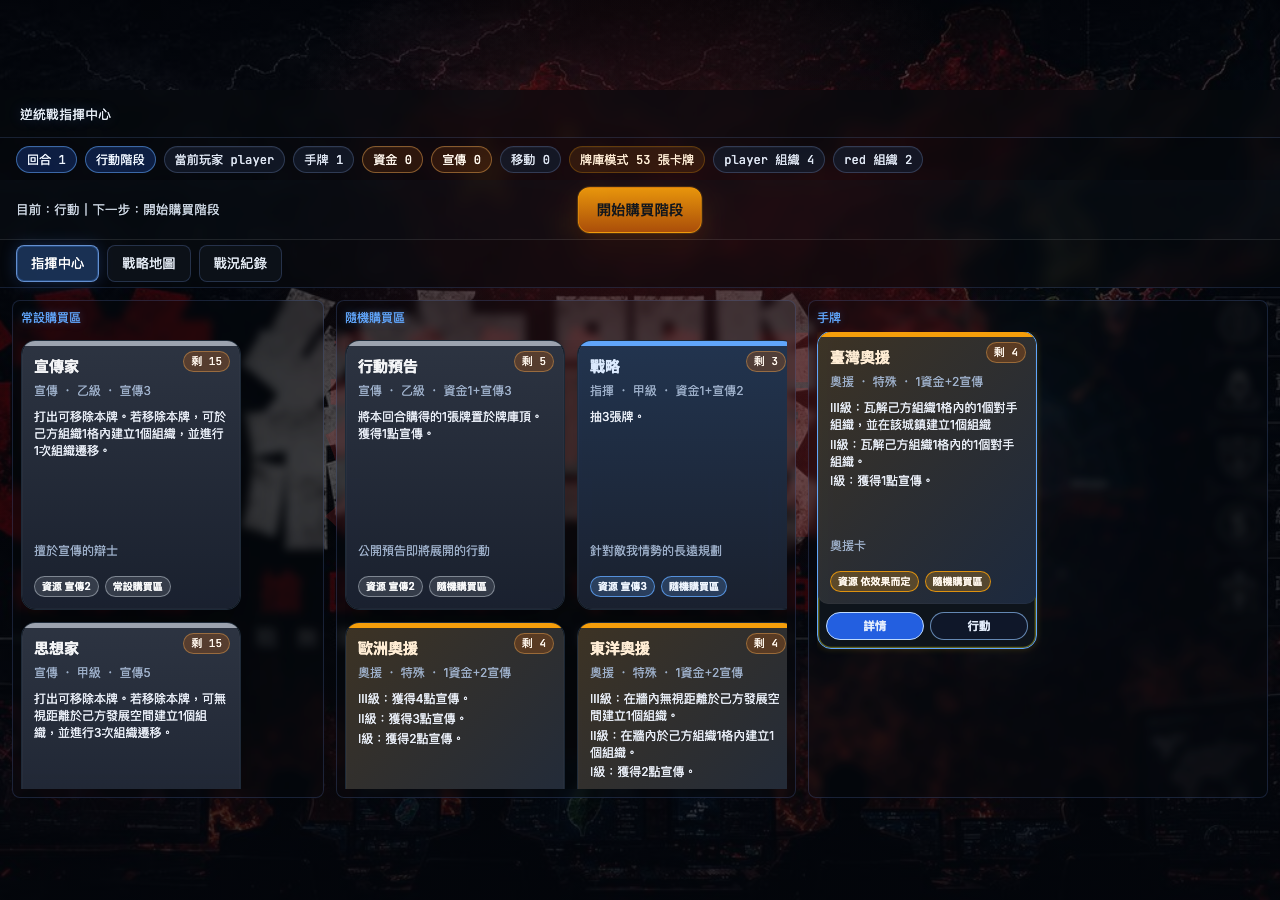
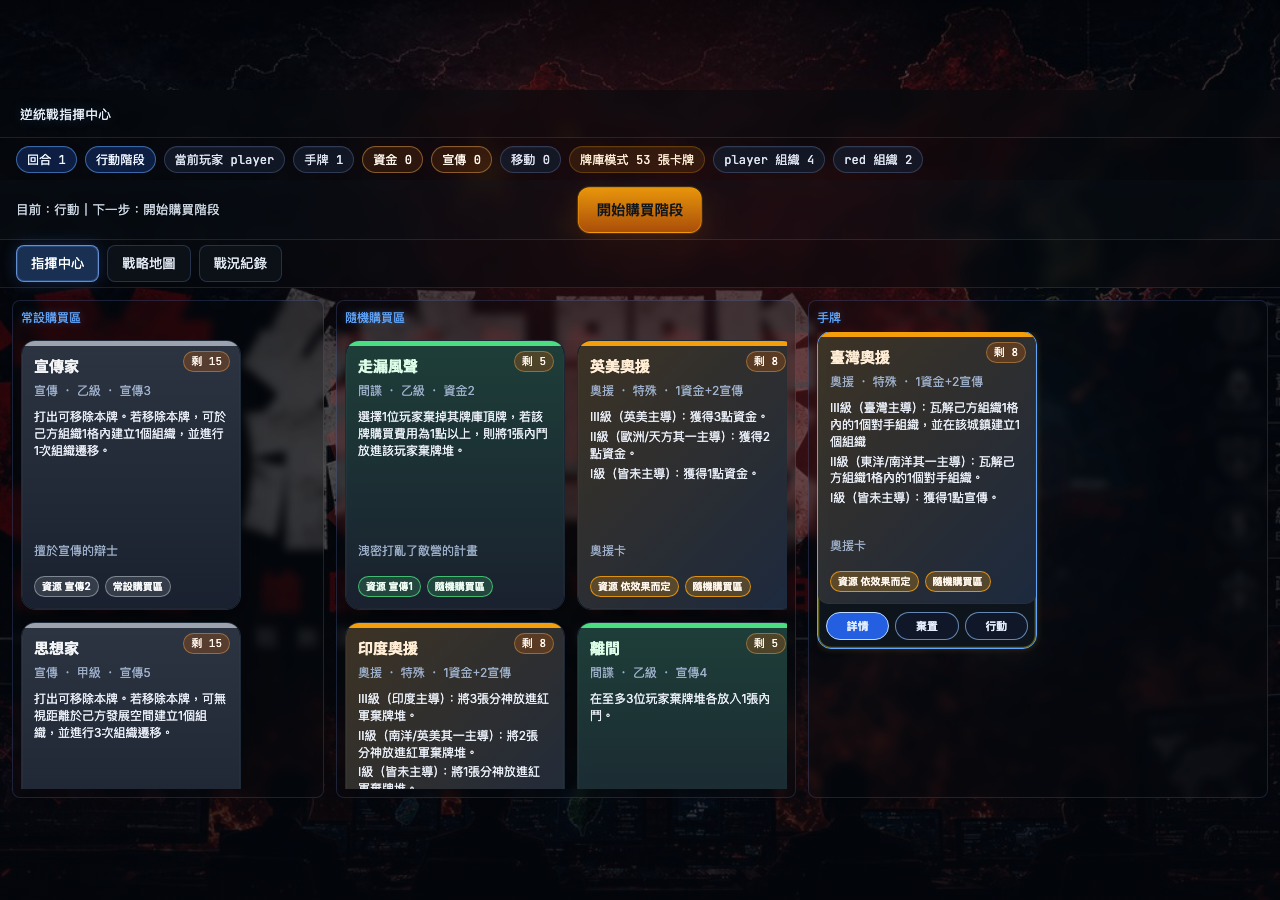
feat: card face shows each support card's own variant; add 棄置 button
/card-presentation only ever read the first of a support card's two
CSV rows and never surfaced which region unlocks which tier. The
catalog now captures both printed variants (region + tier text), and
state() exposes per-instance hand_variants/purchase_area_variants so
the card face renders the one variant that specific card is actually
printed with, labeled with its qualifying region.

Also adds a 棄置 (discard-without-using) button to support cards in
hand, alongside 詳情/行動 — it reuses the existing no-op
play_card(mode='resource') path for support cards, which already
discarded them with zero resource gain but had no button pointing at
it after 資源 was replaced by 詳情.

diff --git a/static/app.js b/static/app.js
@@ -701,7 +701,20 @@ function liveStaticSupplyForCard(state, cardName) {
   return staticCardCatalogCount(cardName);
 }
 
-function renderCardFace(cardName, zone, isStatic = false, compact = false, countOverride = null) {
+function supportVariantEffectText(info, variantInfo) {
+  const variants = info.support_variants;
+  if (!Array.isArray(variants) || !variants.length) return null;
+  const idx = variantInfo && Number.isInteger(variantInfo.variant_index) ? variantInfo.variant_index : 0;
+  const v = variants[idx] || variants[0];
+  const tier2Regions = (v.tier2_regions || []).join('/');
+  return [
+    `III級（${v.tier3_region}主導）：${v.tier3_text}`,
+    `II級（${tier2Regions}其一主導）：${v.tier2_text}`,
+    `I級（皆未主導）：${v.tier1_text}`,
+  ].join('\n');
+}
+
+function renderCardFace(cardName, zone, isStatic = false, compact = false, countOverride = null, variantInfo = null) {
   const info = cardPresentation(cardName) || {};
   const isSupport = /奧援/.test(cardName);
   const color = info.color || (isSupport ? '奧援' : '灰');
@@ -709,7 +722,11 @@ function renderCardFace(cardName, zone, isStatic = false, compact = false, count
   const colorStyle = styleVars(cardColorStyle(color));
   const typeLabel = zone === 'hand' ? '手牌' : (isStatic ? '常設購買區' : '隨機購買區');
   const headerMeta = [info.kind, info.strength, info.cost_text].filter(Boolean).join(' ・ ');
-  const effectLines = splitEffectLines(info.effect_text || (isSupport ? '奧援卡，依區域主導者判定 I・II・III 級效果。' : '（暫無資料）'));
+  // 這張牌實體只印一組 II 級門檻地區；有 variantInfo（來自 state 的 hand_variants／
+  // purchase_area_variants）時只顯示這張牌自己印的那組，而不是奧援目錄裡兩種變體都列出的
+  // 通用文字（2026-07-16 使用者裁決：一張牌只看/只顯示自己印的那組）。
+  const effectText = supportVariantEffectText(info, variantInfo) || info.effect_text;
+  const effectLines = splitEffectLines(effectText || (isSupport ? '奧援卡，依區域主導者判定 I・II・III 級效果。' : '（暫無資料）'));
   const badgeItems = [];
   if (info.resource_text) badgeItems.push(`資源 ${info.resource_text}`);
   if (info.position_text) badgeItems.push(info.position_text);
@@ -2550,16 +2567,25 @@ async function render(state) {
         const cardArg = escapeHtml(jsSingleQuotedString(card));
         const cardAttr = escapeHtml(card);
         const isSupportCard = /奧援/.test(card);
+        const variantInfo = (me.hand_variants || [])[i] || null;
         const colorName = (cardPresentation(card)?.color) || (isSupportCard ? '奧援' : '灰');
         const colorClass = cardColorClass(colorName);
         const canPlayAction = canPlayHandCardMode(card, 'action');
         const actionDisabledAttr = canPlayAction ? '' : 'disabled aria-disabled="true"';
         const actionTitle = handButtonTitle(card, 'action', canPlayAction);
         // 奧援卡只能當「行動」打出；效果依區域主導者判定 I/II/III 級，本身不提供資源，
-        // 所以不給「資源」按鈕，改為「詳情」——點擊只是把卡面（已完整列出 I/II/III 級文字）
-        // 閃爍聚焦，不會送出任何動作。
-        const firstButtonHtml = isSupportCard
-          ? `<button class="hand-card-action-btn hand-card-detail-btn" type="button" title="效果詳情已列於卡面（I/II/III 級）" data-card-index="${i}" data-card-name="${cardAttr}" data-card-mode="detail">詳情</button>`
+        // 所以不給「資源」按鈕，改為「詳情」（卡面已列出這張牌實際印的 I/II/III 級文字，
+        // 點擊只是閃爍聚焦，不送出任何動作）與「棄置」（不使用這張牌，直接送進棄牌堆——
+        // 沿用 play_card(mode='resource') 對奧援卡原本就有的「不給資源、直接棄置」行為，
+        // 只是重新掛一顆清楚標示用途的按鈕，2026-07-16 使用者需求）。
+        const middleButtonsHtml = isSupportCard
+          ? (() => {
+              const canDiscard = canPlayHandCardMode(card, 'resource');
+              const discardDisabledAttr = canDiscard ? '' : 'disabled aria-disabled="true"';
+              const discardTitle = canDiscard ? '棄置這張奧援卡：直接送進棄牌堆，不使用、不獲得任何效果。' : handButtonTitle(card, 'resource', canDiscard);
+              return `<button class="hand-card-action-btn hand-card-detail-btn" type="button" title="效果詳情已列於卡面（I/II/III 級）" data-card-index="${i}" data-card-name="${cardAttr}" data-card-mode="detail">詳情</button>
+              <button class="hand-card-action-btn" type="button" ${discardDisabledAttr} title="${escapeHtml(discardTitle)}" data-card-index="${i}" data-card-name="${cardAttr}" data-card-mode="resource">棄置</button>`;
+            })()
           : (() => {
               const canPlayResource = canPlayHandCardMode(card, 'resource');
               const resourceDisabledAttr = canPlayResource ? '' : 'disabled aria-disabled="true"';
@@ -2567,10 +2593,10 @@ async function render(state) {
               return `<button class="hand-card-action-btn" type="button" ${resourceDisabledAttr} title="${escapeHtml(resourceTitle)}" data-card-index="${i}" data-card-name="${cardAttr}" data-card-mode="resource">資源</button>`;
             })();
         handDiv.innerHTML += `
-          <div class='card hand-card ${colorClass}' onclick="selectCardDetail(${cardArg},'hand',false)">
-            ${renderCardFace(card, 'hand', false, true)}
+          <div class='card hand-card ${colorClass}${isSupportCard ? ' hand-card-three-actions' : ''}' onclick="selectCardDetail(${cardArg},'hand',false)">
+            ${renderCardFace(card, 'hand', false, true, null, variantInfo)}
             <div class="hand-card-actions">
-              ${firstButtonHtml}
+              ${middleButtonsHtml}
               <button class="hand-card-action-btn" type="button" ${actionDisabledAttr} title="${escapeHtml(actionTitle)}" data-card-index="${i}" data-card-name="${cardAttr}" data-card-mode="action">行動</button>
             </div>
           </div>`;
@@ -2615,9 +2641,10 @@ async function render(state) {
               : !purchaseAffordable
                 ? `資源不足，需要 ${costText}`
                 : `購買此卡（${costText}）`;
+      const variantInfo = (state.purchase_area_variants || [])[i] || null;
       container.innerHTML += `
         <div class='card ${typeClass}${supportClass} ${colorClass}' onclick="selectCardDetail(${JSON.stringify(card)},'purchase',${isStatic})" ${canBuy ? `ondblclick="sendAction('buy_card',{index:${i}})"` : ''}>
-          ${renderCardFace(card, 'purchase', isStatic, true, isStatic ? staticSupply : null)}
+          ${renderCardFace(card, 'purchase', isStatic, true, isStatic ? staticSupply : null, variantInfo)}
           <button class="purchase-card-buy-btn" type="button" ${canBuy ? '' : 'disabled aria-disabled="true"'} title="${escapeHtml(buyTitle)}" onclick="event.stopPropagation(); sendAction('buy_card',{index:${i}})">購買</button>
         </div>`;
     });

diff --git a/static/index.html b/static/index.html
@@ -3,7 +3,7 @@
 <head>
   <meta charset="UTF-8" />
   <title>REDLINE // STRATEGIC COMMAND</title>
-  <link rel="stylesheet" href="/static/style.css?v=support-card-detail-btn-20260716" />
+  <link rel="stylesheet" href="/static/style.css?v=support-card-variant-discard-20260716" />
 </head>
 <body>
 <div id="stageViewport">
@@ -239,6 +239,6 @@
 </div>
 
 <script src="https://unpkg.com/leaflet@1.9.4/dist/leaflet.js"></script>
-<script src="/static/app.js?v=support-card-detail-btn-20260716"></script>
+<script src="/static/app.js?v=support-card-variant-discard-20260716"></script>
 </body>
 </html>

diff --git a/static/style.css b/static/style.css
@@ -881,6 +881,15 @@ body {
   flex: 0 0 auto;
 }
 
+.hand-card-three-actions .hand-card-actions {
+  grid-template-columns: 1fr 1fr 1fr;
+}
+
+.hand-card-three-actions .hand-card-actions button {
+  padding: 5px 2px;
+  font-size: 0.68rem;
+}
+
 .hand-card-actions button {
   border: 1px solid rgba(147, 197, 253, 0.65);
   border-radius: 999px;

diff --git a/scripts/validate_support_card_variant_and_discard.py b/scripts/validate_support_card_variant_and_discard.py
@@ -1,0 +1,157 @@
+import json
+import os
+import sys
+import urllib.request
+from pathlib import Path
+
+try:
+    from playwright.sync_api import sync_playwright
+except ModuleNotFoundError:
+    system_python = '/usr/bin/python3'
+    if sys.executable != system_python and Path(system_python).exists():
+        os.execv(system_python, [system_python, __file__, *sys.argv[1:]])
+    raise
+
+ROOT = Path(__file__).resolve().parent.parent
+RECORD_DIR = ROOT / 'docs' / 'records' / 'support-cards'
+BASE_URL = 'http://127.0.0.1:8000'
+OUT_JSON = RECORD_DIR / 'SUPPORT_CARD_VARIANT_AND_DISCARD_VALIDATION.json'
+OUT_MD = RECORD_DIR / 'SUPPORT_CARD_VARIANT_AND_DISCARD_VALIDATION.md'
+SCREENSHOT = RECORD_DIR / 'support_card_variant_and_discard.png'
+
+
+def post_json(path, payload=None):
+    data = json.dumps(payload or {}).encode('utf-8')
+    req = urllib.request.Request(BASE_URL + path, data=data, headers={'Content-Type': 'application/json'})
+    return json.loads(urllib.request.urlopen(req, timeout=20).read().decode('utf-8'))
+
+
+# 2026-07-16 使用者裁決：奧援卡實體上一張只印一組 II 級門檻地區（見 support_cards.csv
+# 兩列）；同名卡的兩種變體不應互相干擾——手上這張牌只看自己印的那組地區。
+# 英美奧援 own region (III 級) = 英美；variant 0 印 歐洲/天方；variant 1 印 東洋/臺灣。
+VARIANT_TIER_CASES = [
+    {'name': 'variant0_matches_own_pair', 'variant_index': 0, 'orgs': {'伊斯坦堡': 1}, 'expected_tier': 2},
+    {'name': 'variant0_ignores_other_variant_pair', 'variant_index': 0, 'orgs': {'東京': 1}, 'expected_tier': 1},
+    {'name': 'variant1_matches_own_pair', 'variant_index': 1, 'orgs': {'東京': 1}, 'expected_tier': 2},
+    {'name': 'variant1_ignores_other_variant_pair', 'variant_index': 1, 'orgs': {'伊斯坦堡': 1}, 'expected_tier': 1},
+]
+
+
+def hand_card_buttons(page, card_name):
+    return page.evaluate(
+        """(name) => {
+          const card = [...document.querySelectorAll('#hand .hand-card')].find(c => c.innerText.includes(name));
+          if (!card) return null;
+          return [...card.querySelectorAll('.hand-card-action-btn')].map(b => ({
+            text: b.textContent.trim(), mode: b.dataset.cardMode, disabled: b.disabled,
+          }));
+        }""",
+        card_name,
+    )
+
+
+def check(browser):
+    results = []
+
+    def record(name, ok, detail=None):
+        results.append({'name': name, 'ok': bool(ok), 'detail': detail or {}})
+
+    # --- Part 1: direct-HTTP proof that tier gating only checks THIS card's own printed variant ---
+    for case in VARIANT_TIER_CASES:
+        setup = post_json('/test/setup-support-card-play', {
+            'support_name': '英美奧援', 'variant_index': case['variant_index'], 'orgs': case['orgs'],
+        })
+        record(
+            case['name'],
+            setup.get('support_tier') == case['expected_tier'],
+            {'variant_index': case['variant_index'], 'orgs': case['orgs'],
+             'expected_tier': case['expected_tier'], 'actual_tier': setup.get('support_tier')},
+        )
+
+    # --- Part 2: card face in the browser shows only the ONE variant this specific card
+    # instance is printed with, not both variants merged together ---
+    setup_v1 = post_json('/test/setup-support-card-play', {
+        'support_name': '英美奧援', 'variant_index': 1, 'orgs': {'東京': 1},
+    })
+    page = browser.new_context(viewport={'width': 1280, 'height': 900}).new_page()
+    page.goto(f"{BASE_URL}/?game_id={setup_v1['game_id']}&player_id={setup_v1['player_id']}", wait_until='networkidle')
+    page.wait_for_selector('#gameShell', state='visible', timeout=10000)
+    page.wait_for_timeout(900)
+    page.evaluate("() => { const b = document.getElementById('closeFactionActionModal'); if (b) b.click(); }")
+    page.wait_for_timeout(300)
+    face_text = page.inner_text('#hand .hand-card .card-effect-block')
+    record(
+        'card_face_shows_only_this_cards_own_printed_variant_regions',
+        ('東洋' in face_text and '臺灣' in face_text) and ('歐洲' not in face_text and '天方' not in face_text),
+        {'face_text': face_text},
+    )
+    page.screenshot(path=str(SCREENSHOT))
+
+    # --- Part 3: 棄置 button discards the support card with zero resource gain (reuses the
+    # existing play_card(mode='resource') no-op path for support cards) ---
+    before_hand = page.evaluate(
+        "(id) => window.lastGameState?.players?.find(p => p.id === id)?.hand || []", setup_v1['player_id']
+    )
+    before_resources = page.evaluate(
+        "(id) => window.lastGameState?.players?.find(p => p.id === id)?.resources || {}", setup_v1['player_id']
+    )
+    page.click("#hand .hand-card [data-card-mode='resource']")
+    page.wait_for_timeout(500)
+    after_hand = page.evaluate(
+        "(id) => window.lastGameState?.players?.find(p => p.id === id)?.hand || []", setup_v1['player_id']
+    )
+    after_resources = page.evaluate(
+        "(id) => window.lastGameState?.players?.find(p => p.id === id)?.resources || {}", setup_v1['player_id']
+    )
+    after_discard = page.evaluate(
+        "(id) => window.lastGameState?.players?.find(p => p.id === id)?.discard_pile || []", setup_v1['player_id']
+    )
+    record(
+        'discard_button_removes_card_from_hand_with_no_resource_gain',
+        before_hand == ['英美奧援'] and after_hand == [] and after_discard == ['英美奧援']
+        and before_resources == after_resources,
+        {'before_hand': before_hand, 'after_hand': after_hand, 'after_discard': after_discard,
+         'before_resources': before_resources, 'after_resources': after_resources},
+    )
+    page.close()
+
+    return {
+        'summary': {
+            'total': len(results),
+            'passed': sum(1 for r in results if r['ok']),
+            'failed': sum(1 for r in results if not r['ok']),
+        },
+        'results': results,
+        'screenshot': str(SCREENSHOT),
+    }
+
+
+def main():
+    RECORD_DIR.mkdir(parents=True, exist_ok=True)
+    with sync_playwright() as p:
+        browser = p.chromium.launch(headless=True)
+        payload = check(browser)
+        browser.close()
+
+    OUT_JSON.write_text(json.dumps(payload, ensure_ascii=False, indent=2) + '\n', encoding='utf-8')
+    lines = [
+        '# 奧援卡「單一變體地區判定」與「棄置」驗證',
+        '',
+        '可重跑指令：`python3 scripts/validate_support_card_variant_and_discard.py`',
+        '',
+        f"- total: {payload['summary']['total']} / passed: {payload['summary']['passed']} / failed: {payload['summary']['failed']}",
+        f"- screenshot: {payload['screenshot']}",
+        '',
+        '## Results',
+    ]
+    for r in payload['results']:
+        lines.append(f"- {'✅' if r['ok'] else '❌'} `{r['name']}` — {json.dumps(r['detail'], ensure_ascii=False)}")
+    lines.append('')
+    OUT_MD.write_text('\n'.join(lines), encoding='utf-8')
+    print(json.dumps(payload['summary'], ensure_ascii=False))
+    if payload['summary']['failed']:
+        raise SystemExit(1)
+
+
+if __name__ == '__main__':
+    main()

diff --git a/server/main.py b/server/main.py
@@ -110,22 +110,50 @@ def _load_card_presentation_catalog():
         with SUPPORT_CSV_PATH.open(encoding='utf-8') as f:
             reader = csv.reader(f)
             next(reader, None)
-            seen = set()
+            rows_by_name = {}
+            order = []
             for row in reader:
-                if len(row) < 9 or not row[0] or row[0] in seen:
+                if len(row) < 9 or not row[0]:
                     continue
-                seen.add(row[0])
-                catalog[row[0]] = {
-                    'name': row[0],
+                name = row[0]
+                if name not in rows_by_name:
+                    rows_by_name[name] = []
+                    order.append(name)
+                rows_by_name[name].append(row)
+            for name in order:
+                rows = rows_by_name[name]
+                first = rows[0]
+                # 每種奧援卡實體上印有 len(rows) 種不同印刷變體：III級門檻地區與效果、I級效果
+                # 皆相同，只有 II級門檻地區（區域主導者優待）不同，各變體各自的張數見 row[8]。
+                # 兩種變體都要呈現，不能只取第一列或把地區合併成一條（2026-07-16 使用者裁決）。
+                variants = [
+                    {
+                        'tier3_region': r[2],
+                        'tier3_text': r[3],
+                        'tier2_regions': [s.strip() for s in r[4].split('、') if s.strip()],
+                        'tier2_text': r[5],
+                        'tier1_text': r[7],
+                        'copies': r[8] if len(r) > 8 else '',
+                    }
+                    for r in rows
+                ]
+                total_copies = sum(int(v['copies'] or 0) for v in variants)
+                tier2_lines = '\n'.join(
+                    f"II級（{'/'.join(v['tier2_regions'])}其一主導，此變體{v['copies']}張）：{v['tier2_text']}"
+                    for v in variants
+                )
+                catalog[name] = {
+                    'name': name,
                     'color': '奧援',
                     'kind': '奧援',
                     'strength': '特殊',
-                    'cost_text': row[1],
-                    'effect_text': f"III級：{row[3]}\nII級：{row[5]}\nI級：{row[7]}",
+                    'cost_text': first[1],
+                    'effect_text': f"III級（{first[2]}主導）：{first[3]}\n{tier2_lines}\nI級（皆未主導）：{first[7]}",
                     'resource_text': '依效果而定',
                     'position_text': '隨機購買區',
                     'meaning_text': '奧援卡',
-                    'count_text': row[8] if len(row) > 8 else '',
+                    'count_text': str(total_copies),
+                    'support_variants': variants,
                 }
     catalog['紅軍奧援'] = {
         'name': '紅軍奧援',

diff --git a/scripts/validate_support_card_detail_button.py b/scripts/validate_support_card_detail_button.py
@@ -56,9 +56,10 @@ def check(browser):
 
     buttons = hand_card_buttons(page, '臺灣奧援')
     record(
-        'support_card_shows_detail_not_resource_button',
+        'support_card_shows_detail_and_discard_not_labeled_resource',
         buttons is not None and any(b['mode'] == 'detail' and b['text'] == '詳情' for b in buttons)
-        and not any(b['mode'] == 'resource' for b in buttons),
+        and any(b['mode'] == 'resource' and b['text'] == '棄置' for b in buttons)
+        and not any(b['text'] == '資源' for b in buttons),
         {'buttons': buttons},
     )
     detail_disabled = next((b['disabled'] for b in (buttons or []) if b['mode'] == 'detail'), None)
@@ -103,8 +104,10 @@ def check(browser):
     page2.wait_for_timeout(300)
     buttons2 = hand_card_buttons(page2, '紅軍奧援')
     record(
-        'red_army_support_card_also_shows_detail_not_resource',
-        buttons2 is not None and any(b['mode'] == 'detail' for b in buttons2) and not any(b['mode'] == 'resource' for b in buttons2),
+        'red_army_support_card_also_shows_detail_and_discard_not_labeled_resource',
+        buttons2 is not None and any(b['mode'] == 'detail' for b in buttons2)
+        and any(b['mode'] == 'resource' and b['text'] == '棄置' for b in buttons2)
+        and not any(b['text'] == '資源' for b in buttons2),
         {'buttons': buttons2},
     )
     page2.close()

diff --git a/docs/records/action-cards/SUPPORT_CARD_DETAIL_BUTTON_VALIDATION.md b/docs/records/action-cards/SUPPORT_CARD_DETAIL_BUTTON_VALIDATION.md
@@ -6,10 +6,10 @@
 - screenshot: /Users/benmini/.openclaw/workspace/redline/docs/records/action-cards/support_card_detail_button.png
 
 ## Results
-- ✅ `support_card_shows_detail_not_resource_button` — {"buttons": [{"text": "詳情", "mode": "detail", "disabled": false}, {"text": "行動", "mode": "action", "disabled": false}]}
+- ✅ `support_card_shows_detail_and_discard_not_labeled_resource` — {"buttons": [{"text": "詳情", "mode": "detail", "disabled": false}, {"text": "棄置", "mode": "resource", "disabled": false}, {"text": "行動", "mode": "action", "disabled": false}]}
 - ✅ `detail_button_is_never_disabled` — {"detail_disabled": false}
 - ✅ `clicking_detail_does_not_consume_or_play_the_card` — {"before_hand": ["臺灣奧援"], "after_hand": ["臺灣奧援"]}
 - ✅ `clicking_detail_flashes_the_card_for_feedback` — {"flash_applied": true}
-- ✅ `card_face_already_shows_all_three_tier_effect_lines` — {"face_text": "III級：瓦解己方組織1格內的1個對手組織，並在該城鎮建立1個組織\nII級：瓦解己方組織1格內的1個對手組織。\nI級：獲得1點宣傳。"}
-- ✅ `red_army_support_card_also_shows_detail_not_resource` — {"buttons": [{"text": "詳情", "mode": "detail", "disabled": false}, {"text": "行動", "mode": "action", "disabled": false}]}
+- ✅ `card_face_already_shows_all_three_tier_effect_lines` — {"face_text": "III級（臺灣主導）：瓦解己方組織1格內的1個對手組織，並在該城鎮建立1個組織\nII級（東洋/南洋其一主導）：瓦解己方組織1格內的1個對手組織。\nI級（皆未主導）：獲得1點宣傳。"}
+- ✅ `red_army_support_card_also_shows_detail_and_discard_not_labeled_resource` — {"buttons": [{"text": "詳情", "mode": "detail", "disabled": false}, {"text": "棄置", "mode": "resource", "disabled": false}, {"text": "行動", "mode": "action", "disabled": false}]}
 - ✅ `non_support_card_keeps_the_resource_button` — {"buttons": [{"text": "資源", "mode": "resource", "disabled": false}, {"text": "行動", "mode": "action", "disabled": false}]}

diff --git a/docs/records/support-cards/SUPPORT_CARD_VARIANT_AND_DISCARD_VALIDATION.md b/docs/records/support-cards/SUPPORT_CARD_VARIANT_AND_DISCARD_VALIDATION.md
@@ -1,0 +1,14 @@
+# 奧援卡「單一變體地區判定」與「棄置」驗證
+
+可重跑指令：`python3 scripts/validate_support_card_variant_and_discard.py`
+
+- total: 6 / passed: 6 / failed: 0
+- screenshot: /Users/benmini/.openclaw/workspace/redline/docs/records/support-cards/support_card_variant_and_discard.png
+
+## Results
+- ✅ `variant0_matches_own_pair` — {"variant_index": 0, "orgs": {"伊斯坦堡": 1}, "expected_tier": 2, "actual_tier": 2}
+- ✅ `variant0_ignores_other_variant_pair` — {"variant_index": 0, "orgs": {"東京": 1}, "expected_tier": 1, "actual_tier": 1}
+- ✅ `variant1_matches_own_pair` — {"variant_index": 1, "orgs": {"東京": 1}, "expected_tier": 2, "actual_tier": 2}
+- ✅ `variant1_ignores_other_variant_pair` — {"variant_index": 1, "orgs": {"伊斯坦堡": 1}, "expected_tier": 1, "actual_tier": 1}
+- ✅ `card_face_shows_only_this_cards_own_printed_variant_regions` — {"face_text": "III級（英美主導）：獲得3點資金。\nII級（東洋/臺灣其一主導）：獲得2點資金。\nI級（皆未主導）：獲得1點資金。"}
+- ✅ `discard_button_removes_card_from_hand_with_no_resource_gain` — {"before_hand": ["英美奧援"], "after_hand": [], "after_discard": ["英美奧援"], "before_resources": {"money": 0, "propaganda": 0}, "after_resources": {"money": 0, "propaganda": 0}}
